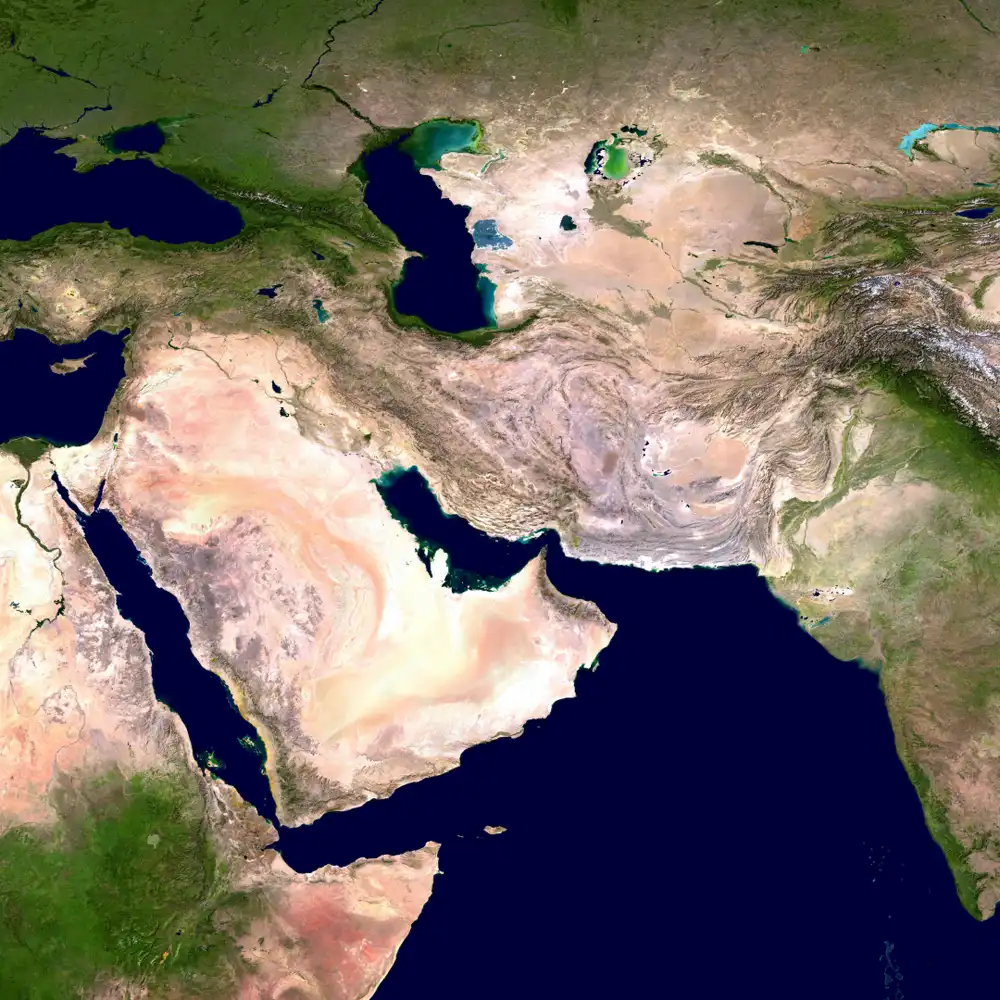
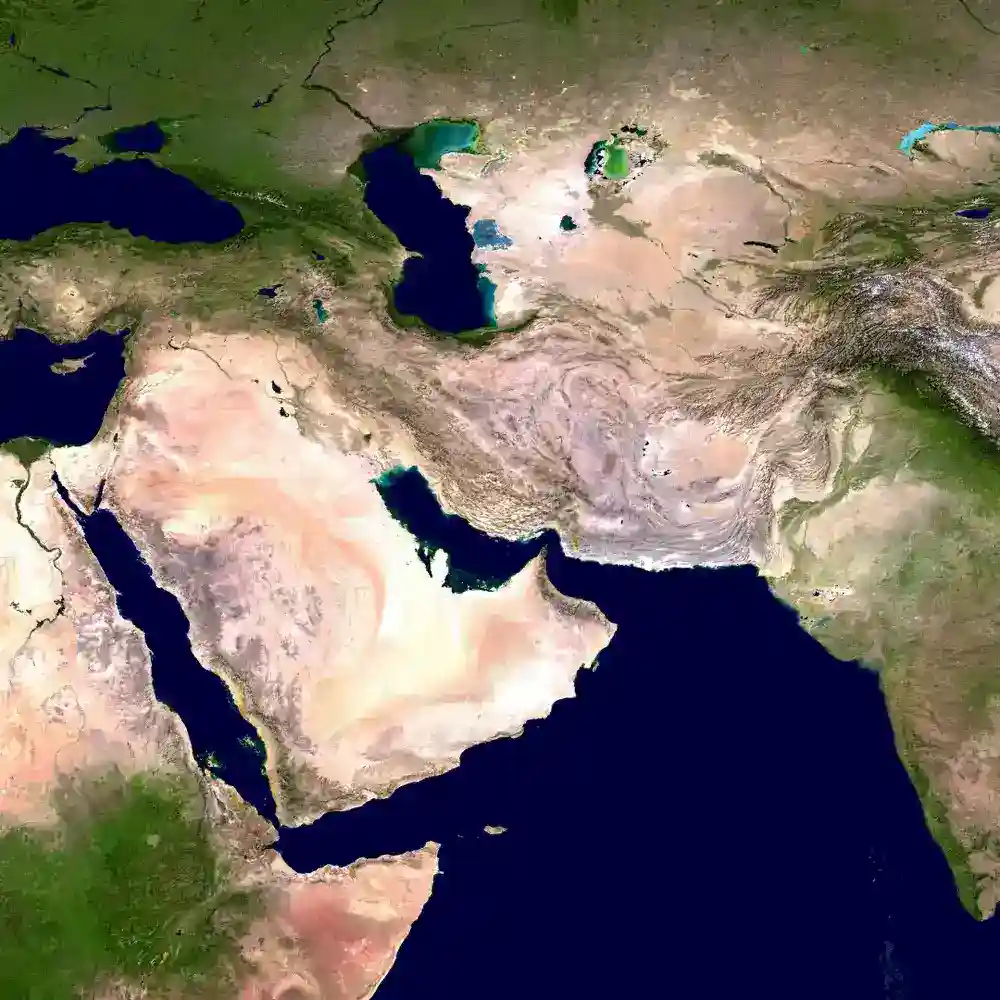
Add new sized images - try to increase sites preformance

diff --git a/index.html b/index.html
@@ -5,7 +5,6 @@
     <meta http-equiv="X-UA-Compatible" content="IE=edge">
     <meta http-equiv="Cache-control" content="public">
     <meta name="viewport" content="width=device-width, initial-scale=1.0">
-    <link rel="stylesheet" href="https://use.fontawesome.com/releases/v5.7.2/css/all.css" integrity="sha384-fnmOCqbTlWIlj8LyTjo7mOUStjsKC4pOpQbqyi7RrhN7udi9RwhKkMHpvLbHG9Sr" crossorigin="anonymous">
     <link href="https://fonts.googleapis.com/css?family=Raleway%7CRighteous" rel="stylesheet">
     <link rel="stylesheet" href="assets/css/style.css">
     <link rel="shortcut icon" type="image/x-icon" href="assets/images/favicon.ico">
@@ -14,7 +13,7 @@
 <body>
     <!-- Navigation -->
     <header>
-        <img src="assets/images/brain-power-2.png" alt="Welcome to Brain Power" class="welcome-img">
+        <img src="assets/images/brain-power-2.webp" alt="Welcome to Brain Power" class="welcome-img">
     </header>
     <!-- Top rated quizes -->
     <section id="first-section">
@@ -80,7 +79,7 @@
         <br>
         <div class="lm-is-wrapped">
             <div class="lm-img-wrapper">
-                <img src="assets/images/love-maths.png" alt="Screenshot of love maths website" id="lm-img">
+                <img src="assets/images/love-maths.webp" alt="Screenshot of love maths website" id="lm-img">
             </div>
             <div class="lm-text-wrapper">
                 <p>Love maths was designed to give people
@@ -89,7 +88,7 @@
                         with no time limit and no limit of questions, you are able to 
                         practice for anytime that suits you.
                 </p>
-                <a href="https://jonnywdev.github.io/love-maths/" target="_blank" class="lm-btn">Try Love Maths</a>
+                <a href="https://jonnywdev.github.io/love-maths/" target="_blank" class="lm-btn" rel="noopener">Try Love Maths</a>
             </div>
         </div>
         
